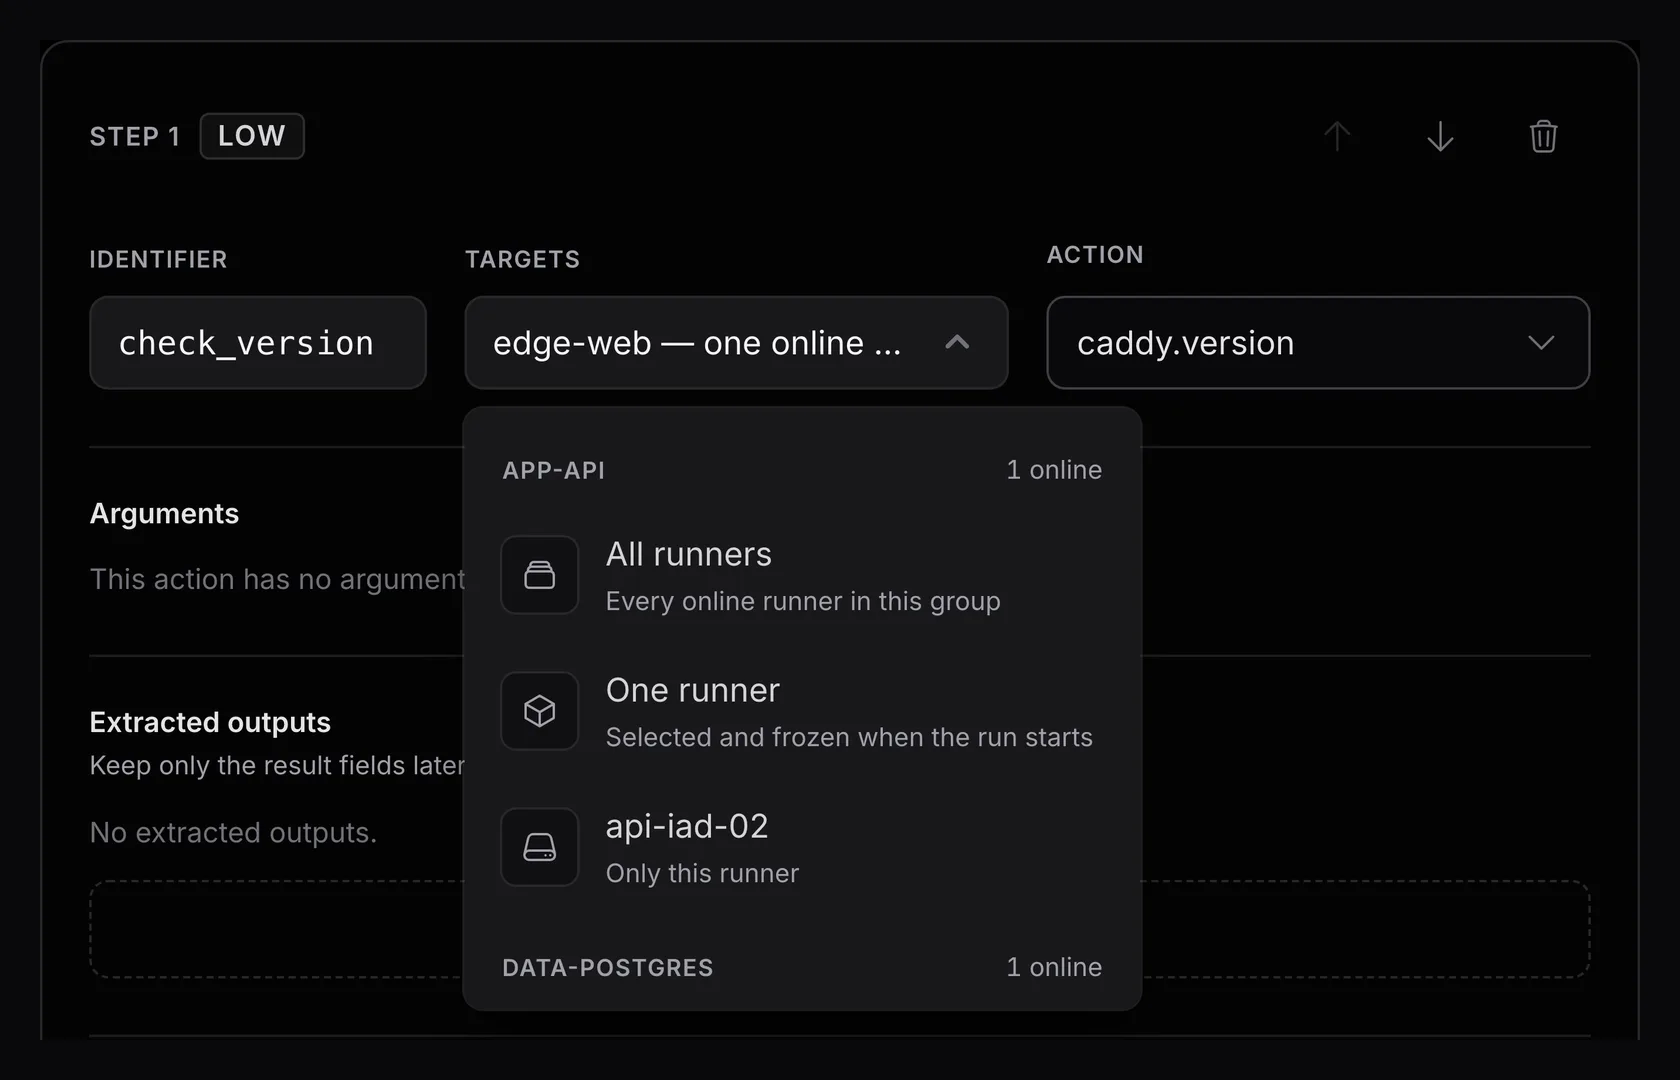
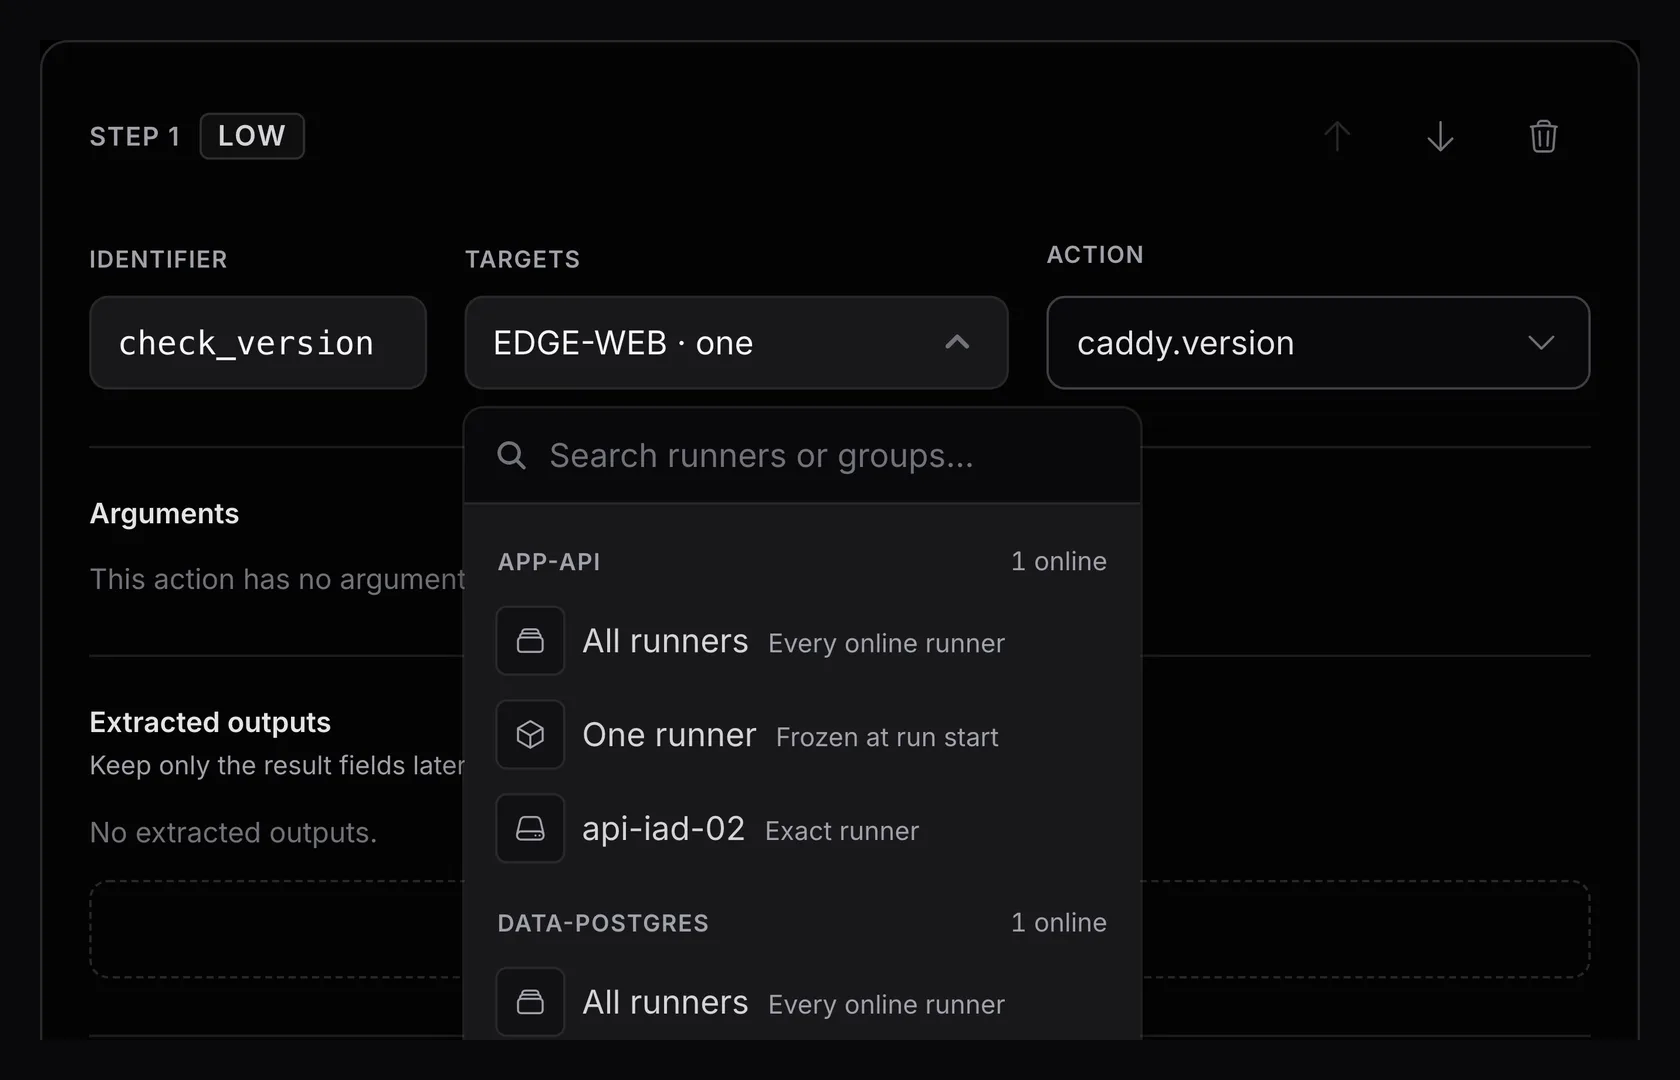
Make runbook target selection scale
Coop-Task: 2026-07-31-make-runbook-target-picker-compact-and-descripti

diff --git a/portal/apps/emisar_web/assets/js/app.js b/portal/apps/emisar_web/assets/js/app.js
@@ -117,6 +117,50 @@ const Combobox = {
   }
 }
 
+// Client-side filtering for bounded multi-select menus. Selection remains
+// LiveView-owned; this hook only narrows the already-rendered catalog so large
+// runner and scope lists stay usable without duplicating server state.
+const FilterableList = {
+  mounted() { this.bind() },
+  updated() { this.bind() },
+
+  destroyed() {
+    if (this.search && this.onInput) this.search.removeEventListener("input", this.onInput)
+  },
+
+  bind() {
+    if (this.search && this.onInput) this.search.removeEventListener("input", this.onInput)
+
+    this.search = this.el.querySelector("[data-filterable-search]")
+    this.sections = Array.from(this.el.querySelectorAll("[data-filterable-section]"))
+    this.empty = this.el.querySelector("[data-filterable-empty]")
+    this.onInput = () => this.filter()
+    this.search.addEventListener("input", this.onInput)
+    this.filter()
+  },
+
+  filter() {
+    const query = this.search.value.trim().toLowerCase()
+    let anyVisible = false
+
+    this.sections.forEach((section) => {
+      const sectionMatches = (section.dataset.filterSearch || "").includes(query)
+      const items = Array.from(section.querySelectorAll("[data-filterable-item]"))
+
+      items.forEach((item) => {
+        const itemMatches = (item.dataset.filterSearch || "").includes(query)
+        item.hidden = query !== "" && !sectionMatches && !itemMatches
+      })
+
+      const sectionVisible = items.some((item) => !item.hidden)
+      section.hidden = !sectionVisible
+      anyVisible = anyVisible || sectionVisible
+    })
+
+    if (this.empty) this.empty.hidden = anyVisible
+  }
+}
+
 const LocalTime = {
   mounted() { this.format() },
   updated() { this.format() },
@@ -491,7 +535,7 @@ let liveSocket = new LiveSocket("/live", Socket, {
   // neutral recovery notice should still acknowledge the interruption.
   disconnectedTimeout: 100,
   params: {_csrf_token: csrfToken},
-  hooks: { LocalTime, Combobox, ExpiryCountdown, CollapsibleSection, ResendCooldown, MagicCodeExpiry, CodeInput, FlashAutoClose, Tooltip, ConfirmDialog }
+  hooks: { LocalTime, Combobox, FilterableList, ExpiryCountdown, CollapsibleSection, ResendCooldown, MagicCodeExpiry, CodeInput, FlashAutoClose, Tooltip, ConfirmDialog }
 })
 
 // Show progress bar on live navigation and form submits

diff --git a/portal/AGENTS.md b/portal/AGENTS.md
@@ -26,7 +26,7 @@ Lower-stakes taste calls. Not Iron Laws, but the defaults. **The user adds to th
 - **A secondary rail never outweighs the primary task.** Delay a fixed-width help, detail, or decision rail until the remaining task column is visibly wider than the rail; stack it below the task at narrower widths. Move rail-only behavior such as sticky positioning, ordering, margins, and visibility at that same breakpoint. Separate a reading rail with the grid gap and alignment, never a decorative full-height vertical divider. Verify the narrowest split viewport and the viewport immediately below it. Sweep: fixed `22rem`/`340px` secondary tracks introduced at `lg`, especially inside console layouts that already spend width on navigation, plus `border-l` on reading rails. Worked example: `.agent/kb/rules/design-secondary-rails-never-outweigh-primary-task.md`.
 - **Complex editors follow the operator's decision order, not the schema's field order.** Put shared context and run-time inputs before ordered workflow units; when available behavior depends on scope, choose targets first and derive the compatible choices from them. Show a control only beside the mode where it has an effect, while reserving its layout track or attaching it as a continuation when removing it would resize fields before its trigger. Keep one left-to-right relationship on one desktop row, giving governing choices more width than bounded numeric inputs; stack that same order on narrow screens. Align the control boxes in that row, not the tops of unlike field wrappers; a composed label carrying a tooltip must not leave its control above or below standard-input peers. Put a workflow unit's identifier in its overview row when it names that unit; keep expert-only constraints in nearby disclosures. Translate contract metadata into operator phrases and label source/value controls instead of exposing delimiter-joined schema tuples. Keep review/read-only rails after the editable workflow on narrow screens. Stable lifecycle facts such as current version and status lead editable identity fields on a desktop rail; lifecycle controls such as Save or Publish remain immediately before validation, with no Cancel/Back link that duplicates navigation and no generic `Actions` heading. Preserve the full applicable model while reducing simultaneous decisions, and pin the rendered order in tests. Sweep: editors leading with IDs/version selectors unrelated to the unit overview, behavior selectors that ignore earlier scope choices, related desktop controls split across rows, controls misaligned because their wrappers rather than control boxes share a top edge, equally stretched finite controls, conditional controls that shift earlier fields, delimiter-joined contract metadata, controls shown in modes where they do nothing, status/version facts placed after the identity fields they qualify, duplicate exit navigation or generic headings in action rails, action controls detached from the validation they govern, and side rails ordered before the primary form on mobile. Worked example: `.agent/kb/rules/design-complex-editors-follow-decision-order.md`.
 - **A large finite catalog uses the shared searchable selector.** Keep the closed face to the concise identity an operator recognizes; put title, pack, group, and other disambiguating metadata in the searchable panel instead of concatenating it into the control. Group choices by the domain fact operators scan, keep unavailable saved values legible, and preserve keyboard selection while skipping disabled options. Sweep: long native selects, catalog labels that join every metadata field into the trigger, and one-off searchable dropdowns that duplicate the Audit Type control. Worked example: `.agent/kb/rules/design-complex-editors-follow-decision-order.md`.
-- **Multi-target controls keep one stable overview-row trigger.** Summarize the selection in that trigger and put both add and remove choices in its menu; never stack selected-target cards above a second picker. Saved targets that no longer resolve stay human-readable, visibly unavailable, and removable even when the current catalog is empty. Event-backed selections inside a larger `phx-change` form also render hidden form values, so any later whole-form change preserves the server-owned selection. When one group offers group-wide, one-selected-member, and exact-member scopes, render them as peer rows with explicit consequences; indentation must not imply that an exact member belongs to a selection mode. Sweep: overview grids with selected scope rows above another picker, raw `group:`/`runner:` refs, stale selections disabled along with add choices, click-owned selected state absent from form serialization, and exact targets nested under a group-selection mode. Worked example: `.agent/kb/rules/design-complex-editors-follow-decision-order.md`.
+- **Multi-target controls keep one stable overview-row trigger.** Summarize recognizable selected identities in that trigger; a count alone is not a summary, and `+N` is only bounded overflow after named choices. Put both add and remove choices in its menu; never stack selected-target cards above a second picker. Large fleets keep a search field and dense one-line peer rows with at least 40px hit areas, rather than tall description cards. Saved targets that no longer resolve stay human-readable, visibly unavailable, and removable even when the current catalog is empty. Event-backed selections inside a larger `phx-change` form also render hidden form values, so any later whole-form change preserves the server-owned selection. When one group offers group-wide, one-selected-member, and exact-member scopes, render them as peer rows with explicit consequences; indentation must not imply that an exact member belongs to a selection mode. Sweep: overview grids with count-only target triggers, tall multi-line fleet choices, no catalog search, selected scope rows above another picker, raw `group:`/`runner:` refs, stale selections disabled along with add choices, click-owned selected state absent from form serialization, and exact targets nested under a group-selection mode. Worked example: `.agent/kb/rules/design-complex-editors-follow-decision-order.md`.
 - **A dependent control never claims an independent failure while its prerequisite is unresolved.** Keep the dependent value visible, neutral, and disabled; let the prerequisite own the actionable error. Only label the dependent choice unavailable or incompatible after its prerequisite resolves and that evaluation actually fails. Sweep: scope-first forms where one unresolved scope produces duplicate rose states or compatibility copy in the behavior control. Worked example: `.agent/kb/rules/design-complex-editors-follow-decision-order.md`.
 - **Validation never moves a stable overview row.** When a control already carries the invalid state or unavailable label, attach its explanation and remedy through the shared accessible `<.tooltip>` so validation changes state without changing geometry. Keep an inline error only when the message itself is the primary, always-visible correction surface; never conditionally add prose beneath one column of a compact relationship row and shift everything below it. Sweep: overview grids whose conditional validation paragraphs change row height. Worked example: `.agent/kb/rules/design-complex-editors-follow-decision-order.md`.
 - **A secondary boolean qualifier in an editor is a positive-state checkbox, not a two-option select.** When unchecked means the normal absence and the true state has one clear label (`Required`, `Sensitive`), use the same compact neutral checkbox everywhere with an explicit unchecked form value. Keep primary decisions that need both alternatives named in their existing control. Sweep: run-time inputs, outputs, conditions, bindings, and other authoring rows with `Visible/Sensitive`, `Required/Optional`, `No/Yes`, or equivalent false/true selects used only as a qualifier. Worked example: `.agent/kb/rules/design-complex-editors-follow-decision-order.md`.

diff --git a/portal/.agent/kb/rules/design-complex-editors-follow-decision-order.md b/portal/.agent/kb/rules/design-complex-editors-follow-decision-order.md
@@ -62,9 +62,13 @@ navigation skips disabled choices. Do not concatenate every searchable fact into
 the trigger or build a second local combobox beside the shared Audit Type shape.
 
 A multi-target control keeps one stable-height trigger in the workflow overview.
-The trigger summarizes the current selection; its menu owns both addition and
-removal. Never stack selected-target rows above a second picker in the overview
-grid. When a saved target no longer resolves, name it in operator language,
+The trigger names recognizable selected identities; a count alone is not a
+summary, and a bounded `+N` appears only after named choices. Its menu owns both
+addition and removal. For large fleets, keep one search field above dense
+single-line choices: scope, consequence, and selection state remain visible,
+while every interactive row retains at least a 40px hit area. Never stack
+selected-target rows above a second picker in the overview grid. When a saved
+target no longer resolves, name it in operator language,
 mark it unavailable in the trigger, and keep its menu row removable even when
 there are no current targets to add. If the control changes state through its
 own LiveView events inside a larger `phx-change` form, render that selected state
@@ -155,9 +159,14 @@ never a reduced model.
 - A multi-target step keeps one aligned Targets trigger. `edge-web group` is
   shown instead of `group:edge-web`; an unavailable saved target is visibly
   invalid and can still be removed from the same menu.
+- A two-target trigger reads `EDGE-WEB · all, edge-fra-01`; a longer selection
+  names the first two choices before `+N`. The menu searches runner names and
+  group names, while each scope choice stays on one 40px-or-taller row.
 - A group target menu presents `All runners`, `One runner`, and each exact
   runner as peer rows. Their secondary lines say `Every online runner in this
-  group`, `Selected and frozen when the run starts`, and `Only this runner`.
+  group`, `Selected and frozen when the run starts`, and `Only this runner` when
+  stacked; dense single-line menus shorten those to `Every online runner`,
+  `Frozen at run start`, and `Exact runner` without changing the consequence.
 - When Targets cannot resolve, Action keeps its saved action name in a neutral
   disabled control and shows no compatibility error. Once Targets resolve, a
   genuinely incompatible action owns its unavailable label and accessible
@@ -210,6 +219,8 @@ never a reduced model.
 - Selected-target cards stacked over an add-target dropdown, raw tagged refs in
   the closed trigger, or a stale target that becomes impossible to remove when
   the live catalog is empty.
+- A count-only `2 targets` trigger, a fleet menu with no search, or 56px-tall
+  two-line option cards repeated for every runner.
 - An exact runner indented below `One runner`, implying that the named runner is
   the member the system will randomly select.
 - An event-backed target picker inside a whole-form `phx-change` flow with no
@@ -285,7 +296,8 @@ in for a hidden inapplicable control. Sweep repeated operational cards for
 desktop relationships split across rows, finite controls stretched to equal
 weight, and conditional fields that resize earlier tracks instead of using a
 reserved track or attached continuation. Sweep workflow overview scope controls
-for selected items stacked outside their picker, raw `group:`/`runner:` refs,
+for count-only summaries, unsearchable large catalogs, tall multi-line fleet
+rows, selected items stacked outside their picker, raw `group:`/`runner:` refs,
 and stale selections whose remove action is disabled with the add catalog.
 Sweep scope-first forms for a dependent behavior control that repeats the
 prerequisite's error or claims its own compatibility result before the
